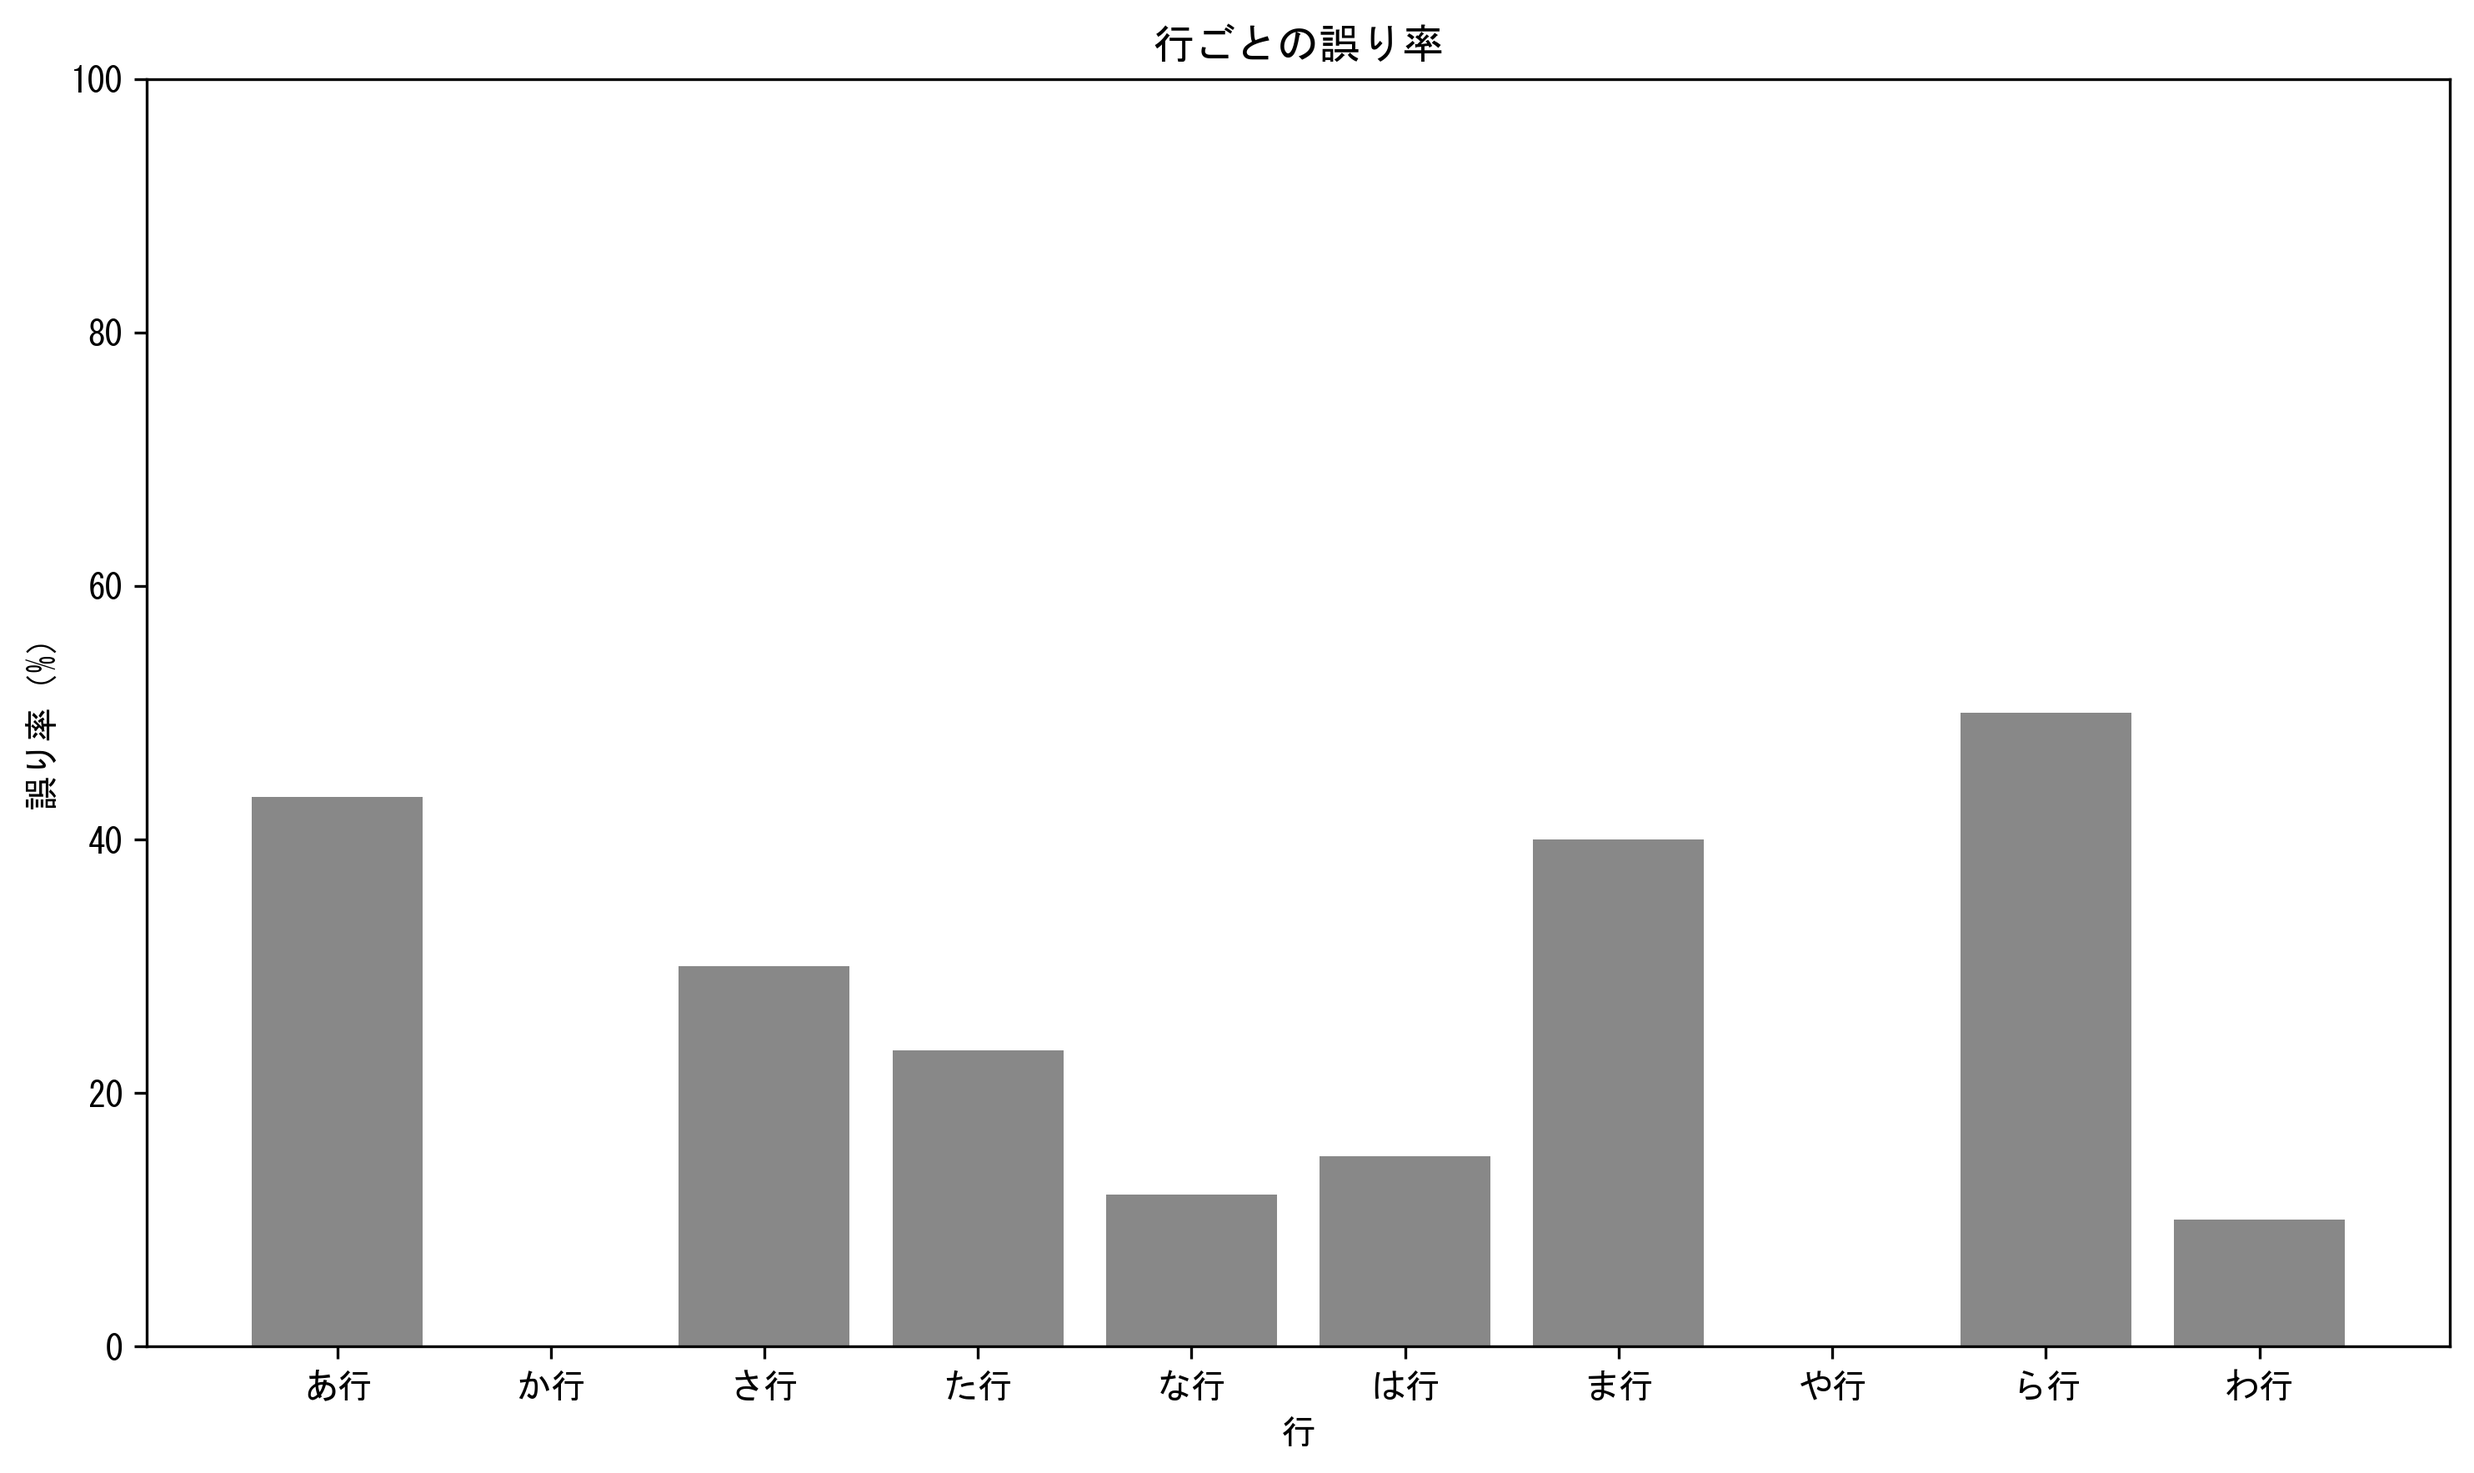
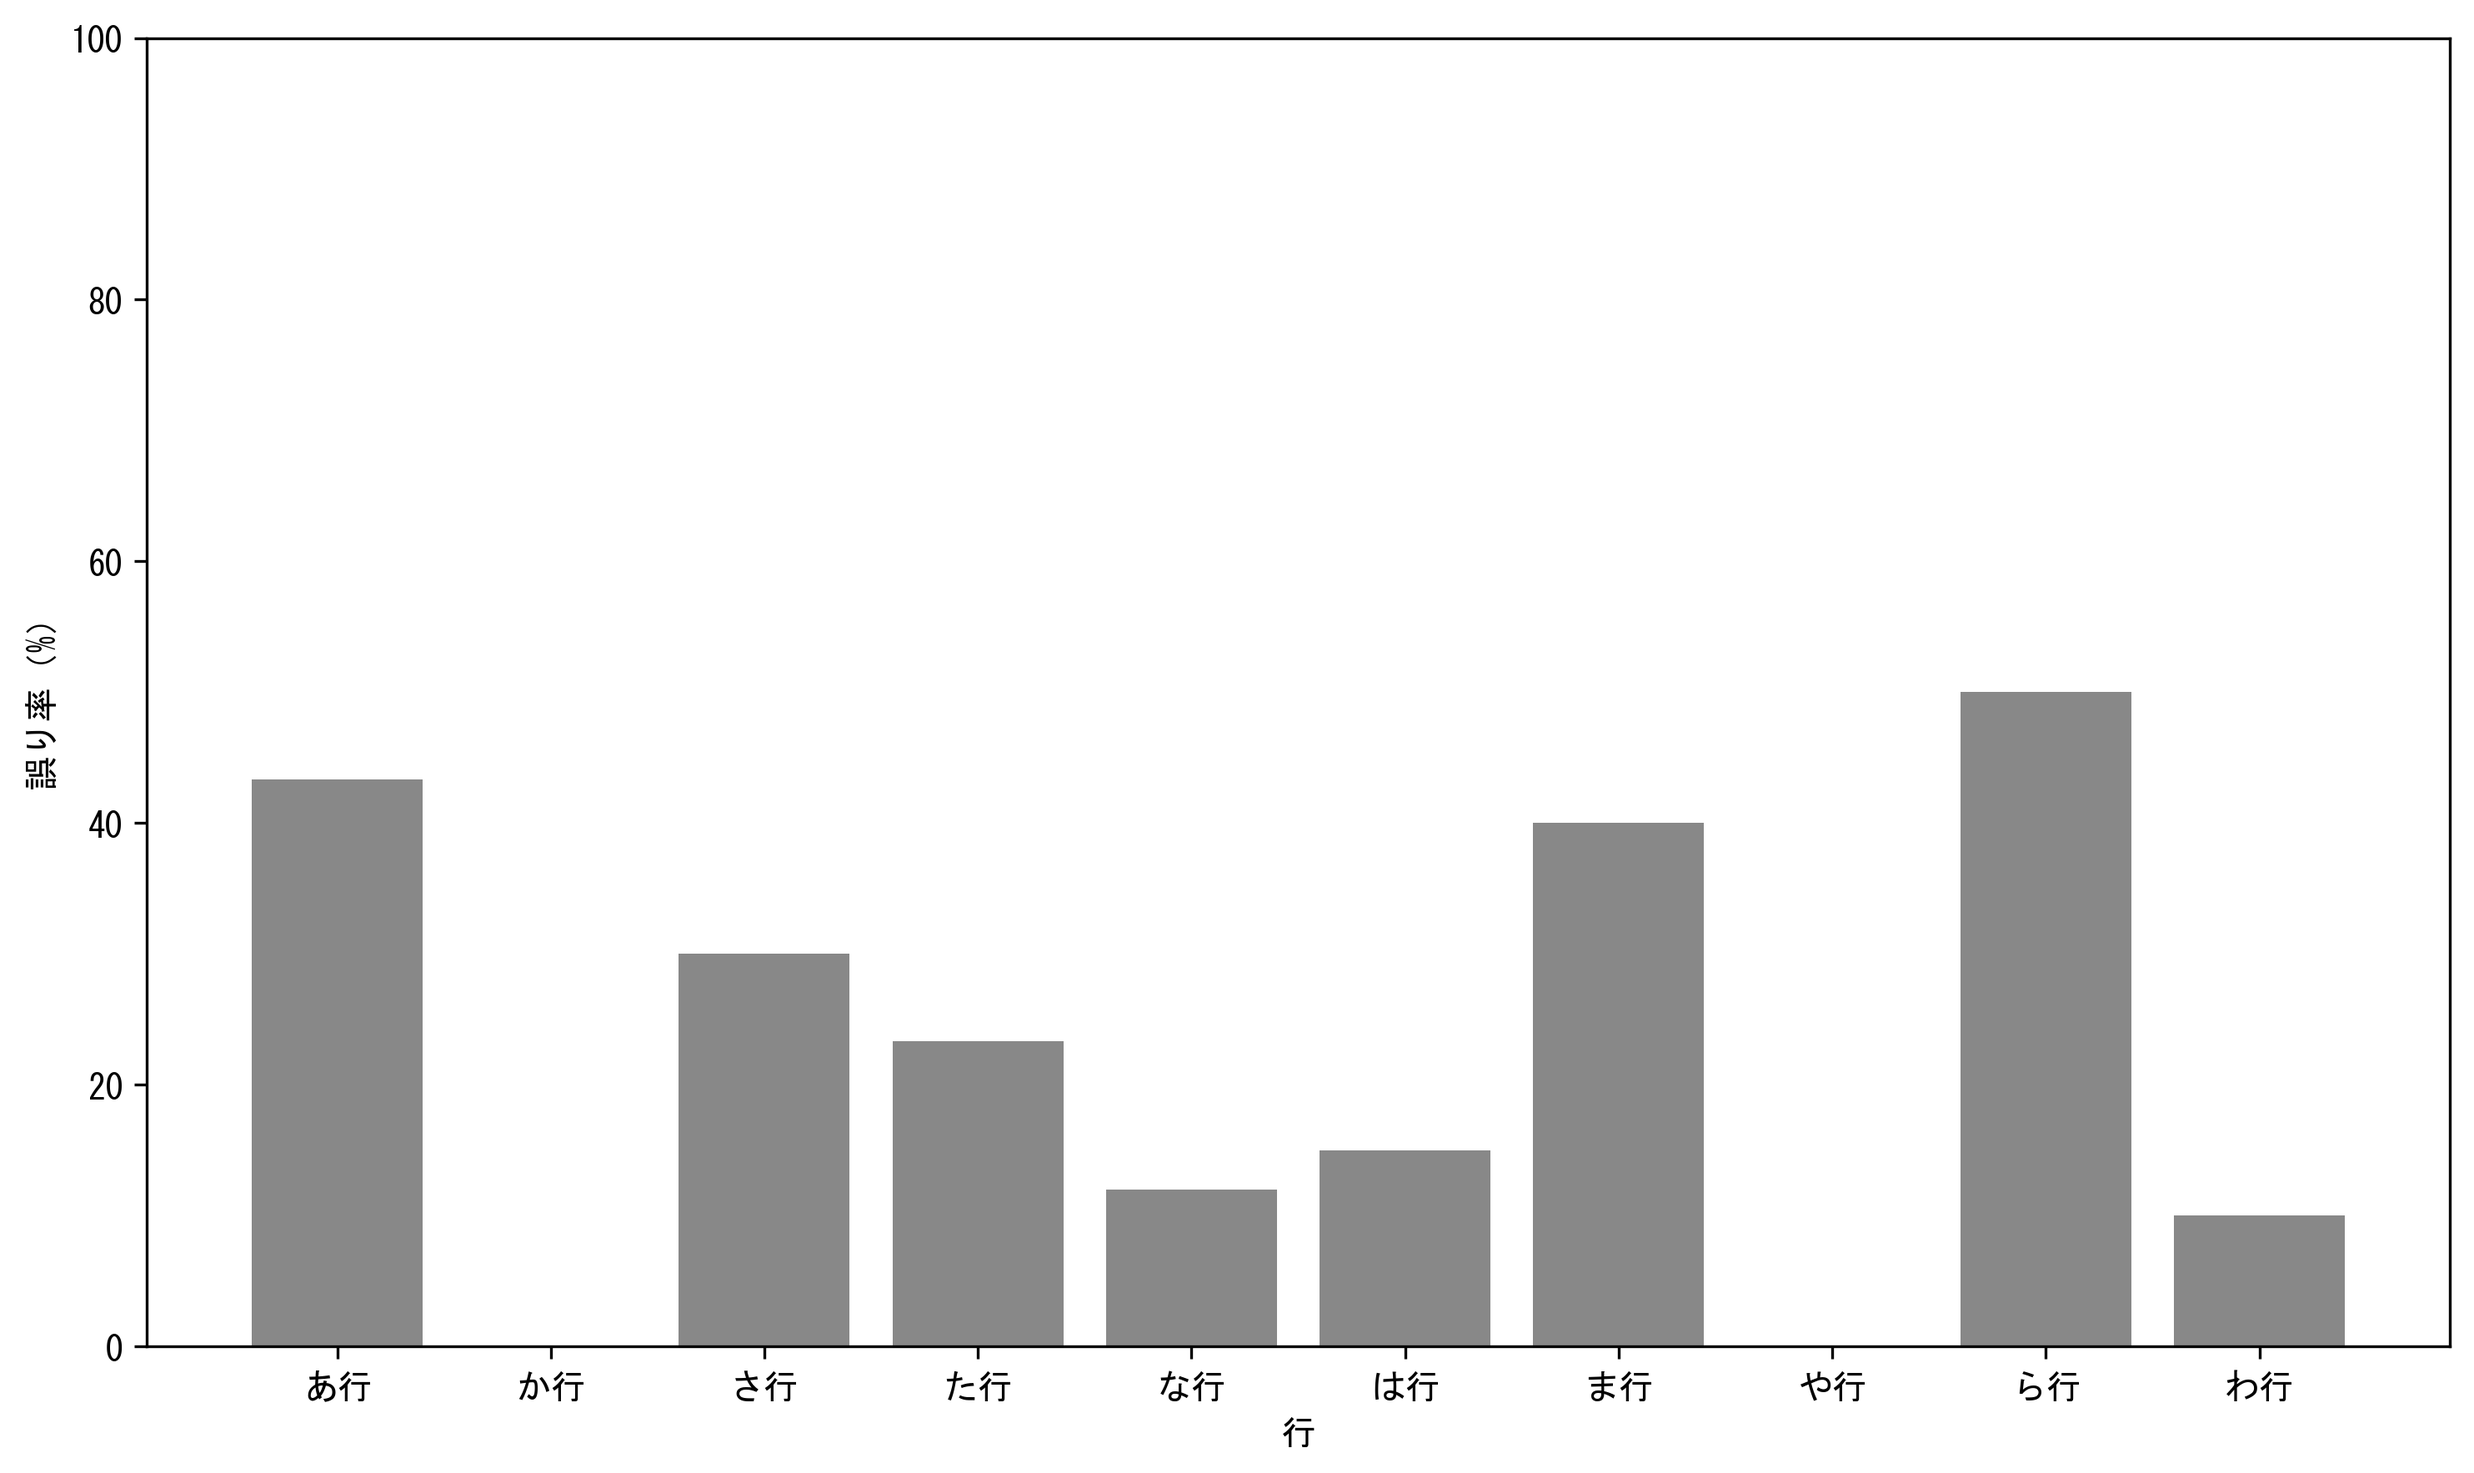
実験２の結果の図表を修正

diff --git a/experimental data/0627/src/sus_analysis.py b/experimental data/0627/src/sus_analysis.py
@@ -7,11 +7,12 @@ import os
 
 # フォント名を明示的に指定
 font_name = "MS Gothic"
+plt.rcParams['font.family'] = font_name
 sns.set_style("whitegrid")
 
 def load_sus_data():
     """SUSデータを読み込む"""
-    file_path = "experimental data/0627/statistical data/sus_score.csv"
+    file_path = "../statistical data/sus_score.csv"
     
     # CSVファイルを読み込み、統計行を除外
     df = pd.read_csv(file_path, encoding='utf-8')
@@ -63,17 +64,26 @@ def create_visualizations(df):
     
     # 1. SUSスコアのヒストグラム
     plt.figure(figsize=(10, 6))
-    plt.hist(df['SUSスコア'].astype(float), bins=8, alpha=0.7, color='skyblue', edgecolor='black')
+    plt.hist(df['SUSスコア'].astype(float), bins=8, alpha=0.7, color='#888', edgecolor='black')
     #plt.title("SUSスコアの分布", fontname=font_name, fontsize=14, fontweight='bold')
     plt.xlabel("SUSスコア[点]", fontname=font_name, fontsize=12)
     plt.ylabel("頻度[人]", fontname=font_name, fontsize=12)
+    
+    # 平均スコアの点線を追加
+    mean_score = df['SUSスコア'].astype(float).mean()
+    plt.axvline(x=mean_score, color='black', linestyle='--', linewidth=2, label=f'平均: {mean_score:.1f}点')
+    legend = plt.legend(fontsize=10)
+    # 凡例のテキストにフォントを設定
+    for text in legend.get_texts():
+        text.set_fontname(font_name)
+    
     plt.grid(True, alpha=0.3)
     plt.tight_layout()
     plt.savefig(f"{output_dir}/sus_score_histogram.png", dpi=300, bbox_inches='tight')
     plt.close()
     
     # 2. 各設問の回答分布（棒グラフ）
-    fig, axes = plt.subplots(2, 5, figsize=(20, 10))
+    fig, axes = plt.subplots(5, 2, figsize=(12, 24))
     axes = axes.flatten()
     for i in range(1, 11):
         col_name = f'設問{i}'
@@ -81,7 +91,7 @@ def create_visualizations(df):
             question_data = df[col_name].astype(int)
             # 各選択肢ごとのカウント
             counts = [sum(question_data == v) for v in range(1, 6)]
-            axes[i-1].bar(range(1, 6), counts, color='lightcoral', edgecolor='black', alpha=0.7)
+            axes[i-1].bar(range(1, 6), counts, color='#888', edgecolor='black', alpha=0.7)
             axes[i-1].set_title(f'設問 {i}', fontname=font_name, fontsize=12, fontweight='bold')
             axes[i-1].set_xlabel('回答', fontname=font_name, fontsize=10)
             axes[i-1].set_ylabel('頻度', fontname=font_name, fontsize=10)

diff --git a/experimental data/0627-myself/src/create_gyo_error_count.py b/experimental data/0627-myself/src/create_gyo_error_count.py
@@ -80,7 +80,8 @@ plt.figure(figsize=(10,6))
 plt.bar(df_out['行'], df_out['誤り率（%）'], color='#888')
 plt.xlabel('行', fontname=font_name)
 plt.ylabel('誤り率（%）', fontname=font_name)
-plt.title('行ごとの誤り率', fontname=font_name)
+# 文書内でキャプション付けするため、グラフのタイトルを削除
+#plt.title('行ごとの誤り率', fontname=font_name)
 plt.ylim(0, 100)
 plt.tight_layout()
 plt.savefig(graphs_dir / 'gyo_error_rate2.png', dpi=300, bbox_inches='tight')
